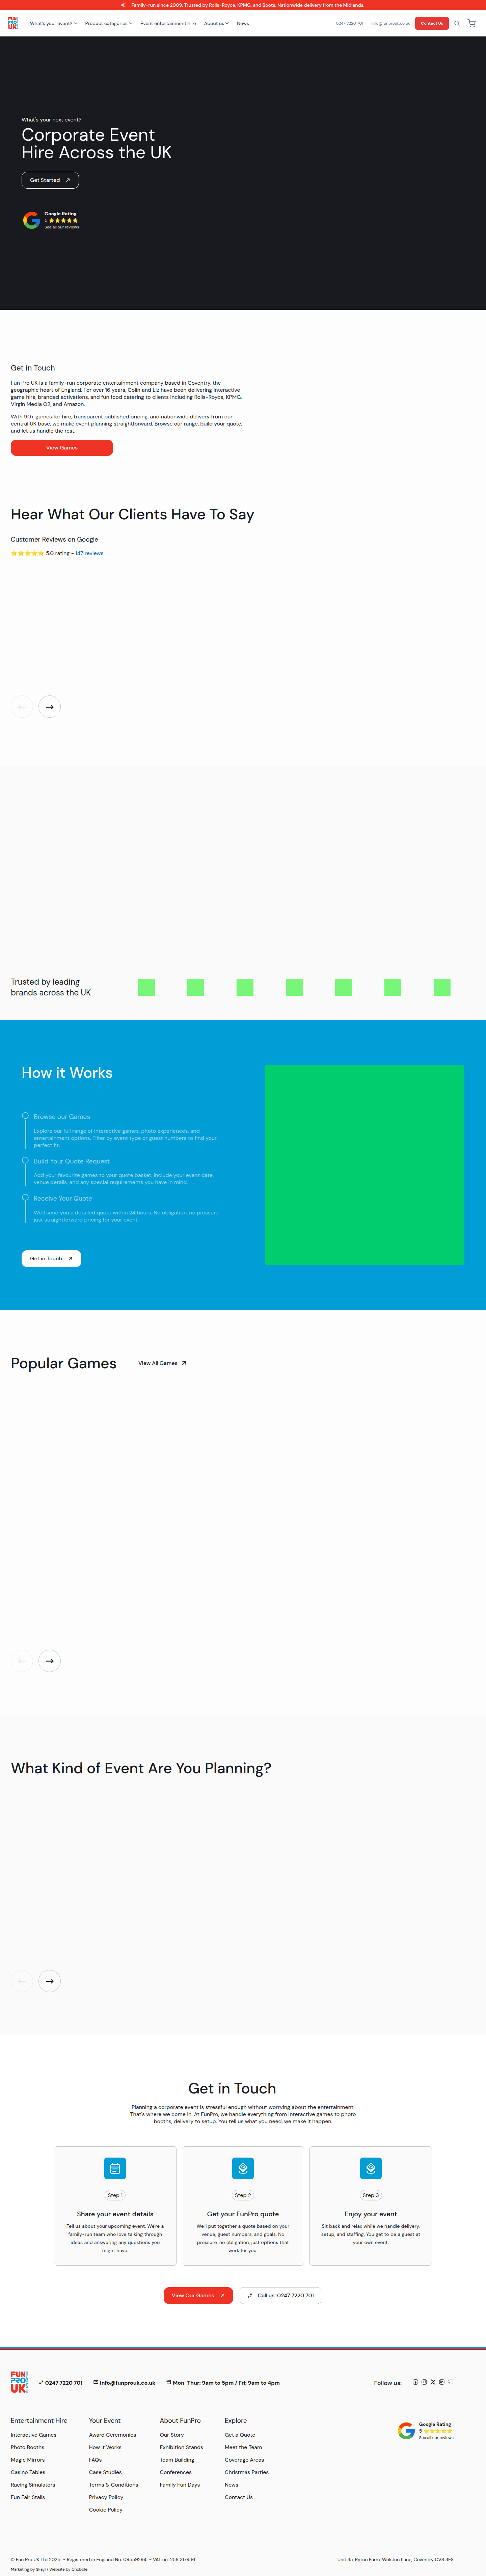
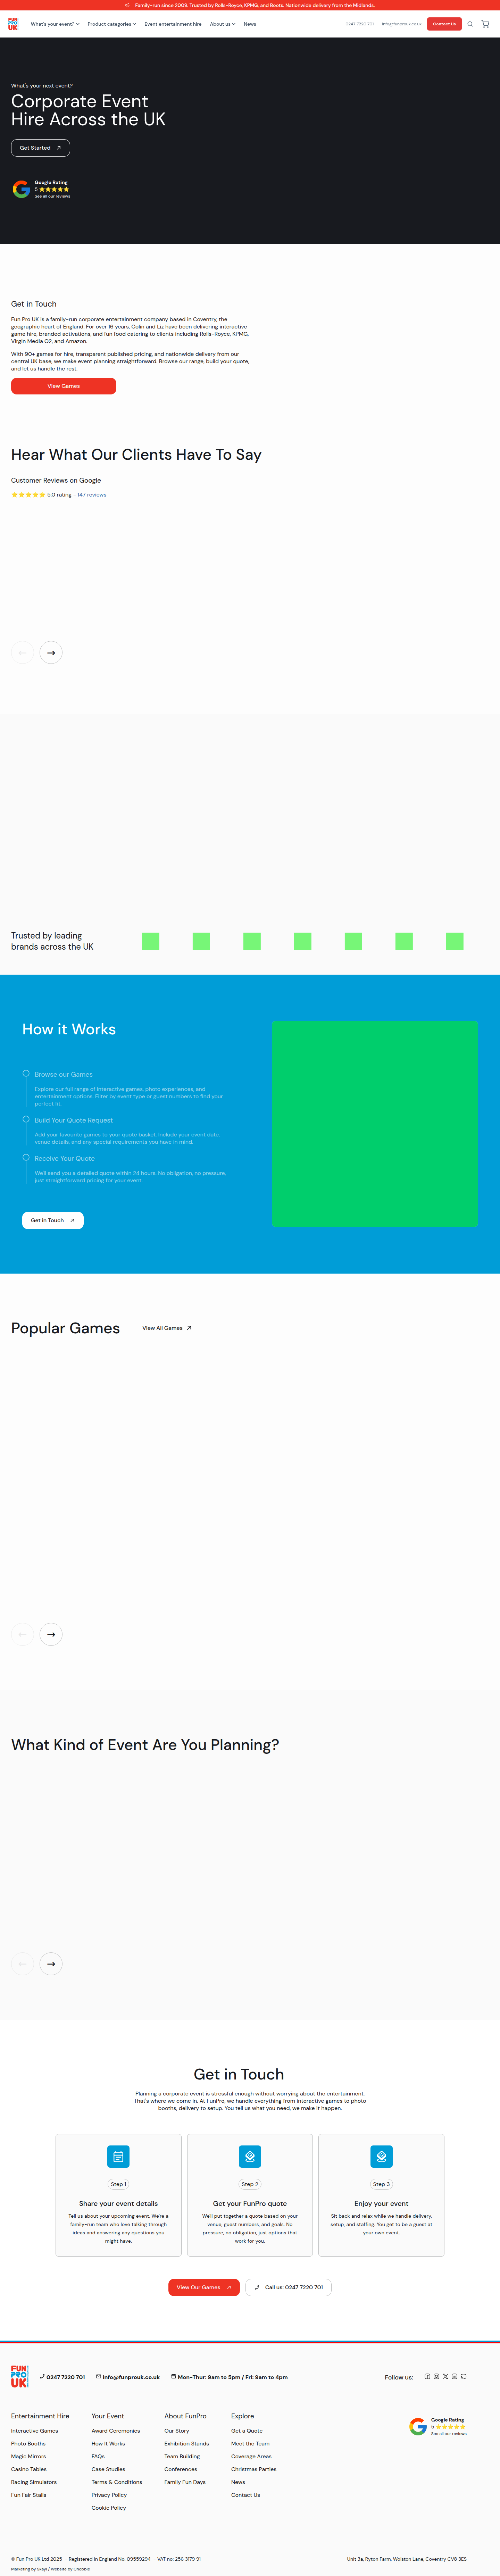
Restrict fullwidth video layout to XL screens only, add fullhd/ultrawide screenshots
Wraps the 16:9 aspect-ratio and absolute-positioned inner content
in a breakpoints.up("xl") media query so mobile/tablet use the
original layout. Adds 1920x1080 and 2560x1080 screenshots.

https://claude.ai/code/session_01RbANvHDxNbAbHskEDjdhVK

diff --git a/css/theme.scss b/css/theme.scss
@@ -386,7 +386,9 @@ article#content,
     }
 
     &.homepage-header {
-      padding: 0;
+      @include breakpoints.up("xl") {
+        padding: 0;
+      }
     }
   }
 
@@ -1286,14 +1288,17 @@ body.horizontal-nav main {
 
   position: relative;
   overflow: hidden;
-  aspect-ratio: 16 / 9;
+  padding-bottom: 0; // handled by slider margin
 
   .homepage-header-video {
     position: absolute;
-    top: 0;
-    left: 0;
-    width: 100%;
-    height: 100%;
+    top: 50%;
+    left: 50%;
+    width: 177.78vh; // 16:9 aspect ratio
+    height: 100vh;
+    min-width: 100%;
+    min-height: 100%;
+    transform: translate(-50%, -50%);
     border: 0;
     pointer-events: none;
     z-index: 0;
@@ -1317,28 +1322,8 @@ body.horizontal-nav main {
 
   .homepage-header-inner {
     @include flex-column(0);
-    justify-content: center;
-    position: absolute;
-    top: 0;
-    left: 0;
-    width: 100%;
-    height: 100%;
-    padding: var(--section-padding-half) max(50px, calc((100% - 1400px) / 2));
-    box-sizing: border-box;
+    position: relative;
     z-index: 2;
-
-    @include breakpoints.down("xl") {
-      padding-left: 32px;
-      padding-right: 32px;
-    }
-    @include breakpoints.down("md") {
-      padding-left: 16px;
-      padding-right: 16px;
-    }
-    @include breakpoints.down("sm") {
-      padding-left: 8px;
-      padding-right: 8px;
-    }
 
     & > * {
       padding: 0;
@@ -1353,6 +1338,32 @@ body.horizontal-nav main {
     ul.items.slider {
       margin: var(--section-padding-half) 0
         calc(var(--section-padding-half) / 2);
+    }
+  }
+
+  // Full-width video layout for XL screens
+  @include breakpoints.up("xl") {
+    aspect-ratio: 16 / 9;
+
+    .homepage-header-video {
+      top: 0;
+      left: 0;
+      width: 100%;
+      height: 100%;
+      transform: none;
+      min-width: unset;
+      min-height: unset;
+    }
+
+    .homepage-header-inner {
+      justify-content: center;
+      position: absolute;
+      top: 0;
+      left: 0;
+      width: 100%;
+      height: 100%;
+      padding: var(--section-padding-half) max(50px, calc((100% - 1400px) / 2));
+      box-sizing: border-box;
     }
   }
 